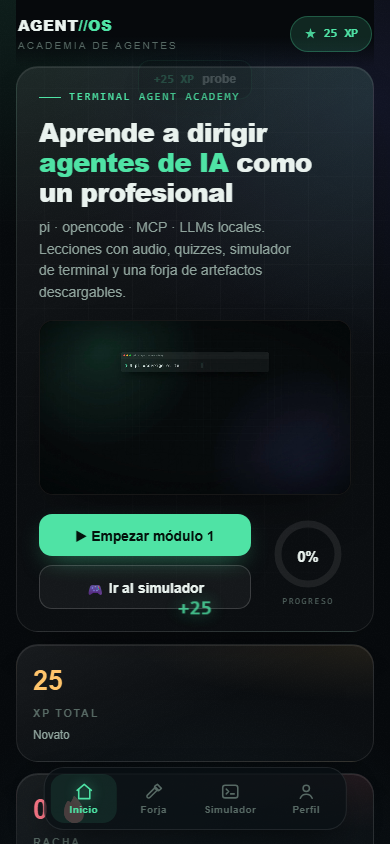
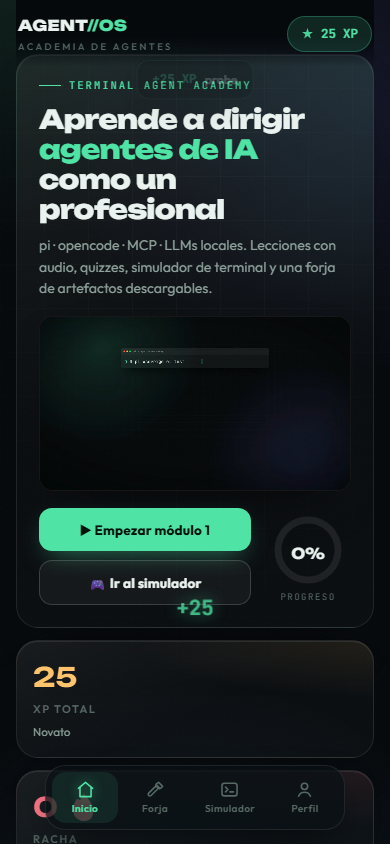
docs: cierre estandar/cadena verde/og/marca/fuentes

diff --git a/docs/evidencias.md b/docs/evidencias.md
@@ -14,6 +14,8 @@ Cierre de cada pieza: captura, grabación o test en verde. Solo lo que la eviden
 | 2026-10-31 | 9 · Despliegue público | Repo `ericksondaviddev-source/edagentes` (commits `b0c469d`, `7a00b88`) + workflow `deploy.yml` en verde (run `41260264328`: título local OK, deploy prod OK, título servido OK); título en vivo verificado con fetch: **`AGENT/OS — Academia de Agentes de IA`**, firma ED-Dev presente, 200 OK → URL entregada: **https://edagentes.vercel.app** | ✅ |
 | 2026-10-31 | 10 · Racha honesta | Streak solo con actividad real: bloque auto-marcado al abrir → eliminado; `streakMark()` ahora corre dentro de `addXP`. Test Chromium headless (NODE_PATH global): abrir en frío → `streak` no existe; `addXP(25)` → `count:1`, persiste al releer; XP visible en pantalla; **consola: 0 errores** → `docs/pieza10-racha.png` | ✅ |
 | 2026-10-31 | 11 · Fix deploy real | Bug en vivo: solo la Forja funcionaba — en `/` los `src="data/…"` relativos resolvían a `/data/…` (404) y MODULES/MISSIONS/ANIMS morían. Fix: rutas absolutas (`/src/data/…`, `/videos/…`). Reproducido el escenario Vercel localmente (app servida en `/`): data object×3, rail 9 módulos, video ready 4, home completo, **0 errores** → `docs/pieza11-deploy-home.png`; en vivo: modulos.js/anims.js/video.mp4 → 200 bajo el título correcto | ✅ |
+| 2026-10-31 | 12 · Estándar + cadena verde + og | `ESTANDAR-ED-DEV.md` subido con 3 piezas AGENT/OS (deploy Actions×3, rutas absolutas, headless NODE_PATH); `scripts/probe.mjs` VERDE local y producción (título, data 9/8/3, rail 9, racha honesta, 0 errores) → `docs/probe-home.png`; `og.jpg` 1200×630 (131 KB) generado desde la app real + metatags og/twitter → `docs/pieza12-og-visual.png` | ✅ |
+| 2026-10-31 | 13 · Marca + fuentes locales | Signo SVG profesional (insignia terminal `>₋` mint/ámbar sobre cueva): `src/favicon.svg` (nítido a 16px), `src/logo.svg` (oscuro) y `src/logo-claro.svg` → `docs/pieza13-logo.png`; favicon real conectado en el HTML. Fuentes: CDN Google → 10 woff2 latin locales (349 KB) con `scripts/gen-fonts.mjs` + `fonts.css`; `document.fonts` confirma 10 cargas (Unbounded 800 ✓, Outfit 400 ✓, JB Mono 700 ✓). Deploy `e958237` en verde; en vivo: og.jpg/fonts/favicon → 200 con título correcto; probe producción VERDE | ✅ |
 
 ## Pieza 2 (verificada en navegador)
 

diff --git a/MEMORIA.md b/MEMORIA.md
@@ -19,6 +19,7 @@ Academia web gamificada (HTML autocontenido) para aprender a dirigir agentes de 
 - (pendiente: ninguna verificada dos veces todavía)
 
 ## Vara actual (qué subió 1% y cuándo)
+- 2026-10-31 — **Sello completo de marca**: signo SVG propio (favicon nítido a 16px + logo horizontal para fondos oscuros y claros), tarjeta og de compartir desde la app real, y tipografía 100% local (10 woff2 latín, 349 KB, cero CDN). Cadena verde permanente: `node scripts/probe.mjs` da VERDE en local y producción con aserciones numéricas. Vara nueva: **ningún proyecto ED-Dev sin logo.svg/logo-claro/favicon.svg + probe**.
 - 2026-10-31 — **APP PUBLICADA: https://edagentes.vercel.app** ✓ (título verificado en vivo: `AGENT/OS — Academia de Agentes de IA`; firma ED-Dev presente; 200 OK). Pipeline activo: `gh workflow run deploy.yml` → GitHub Actions (nube, salta el bloqueo local de api.vercel.com) → deploy `--prod` → verificación de `<title>` integrada en el workflow. Vara nueva: re-publicar es un solo comando de mi lado, con verificación automática de dominio.
 - 2026-10-31 — Subió 1%: racha honesta (solo con actividad real, no por abrir). Además: re-publicar quedó como comando propio con verificación de `<title>` automática — ya está probado dos veces (deploy 1 y redeploy de la racha).
 - 2026-10-27 — Subió 1%: contenido separado del motor (`src/data/`, 3 archivos editables) + proyecto con memoria viva y evidencias en docs/. La vara ahora: editar una lección NO requiere tocar el HTML; y todo cierre de pieza lleva captura verificada en navegador.
